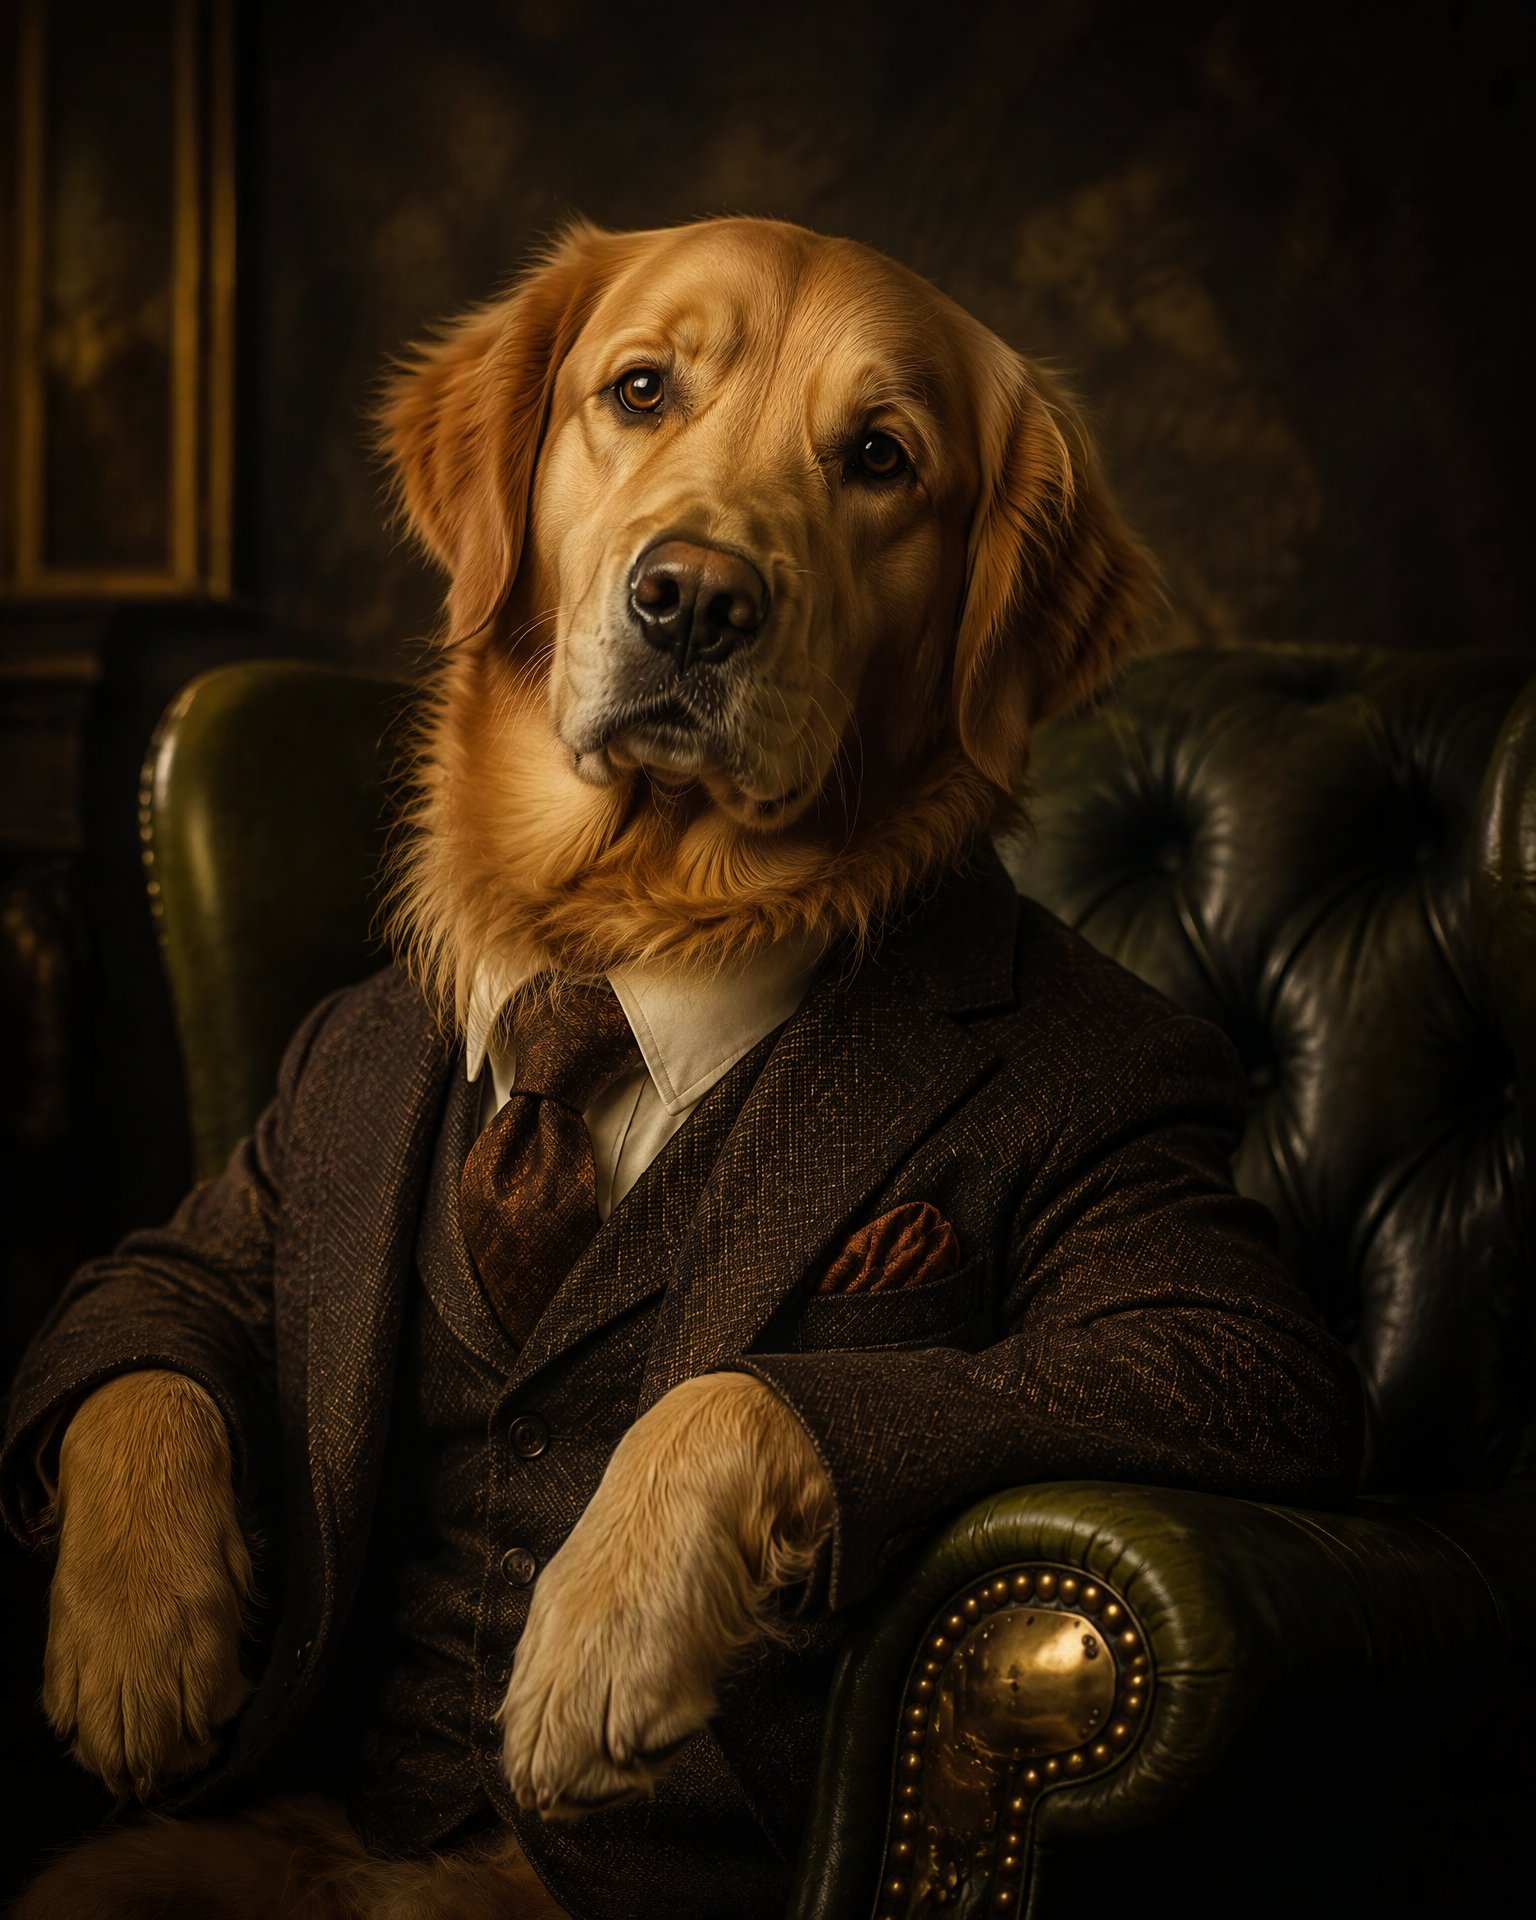
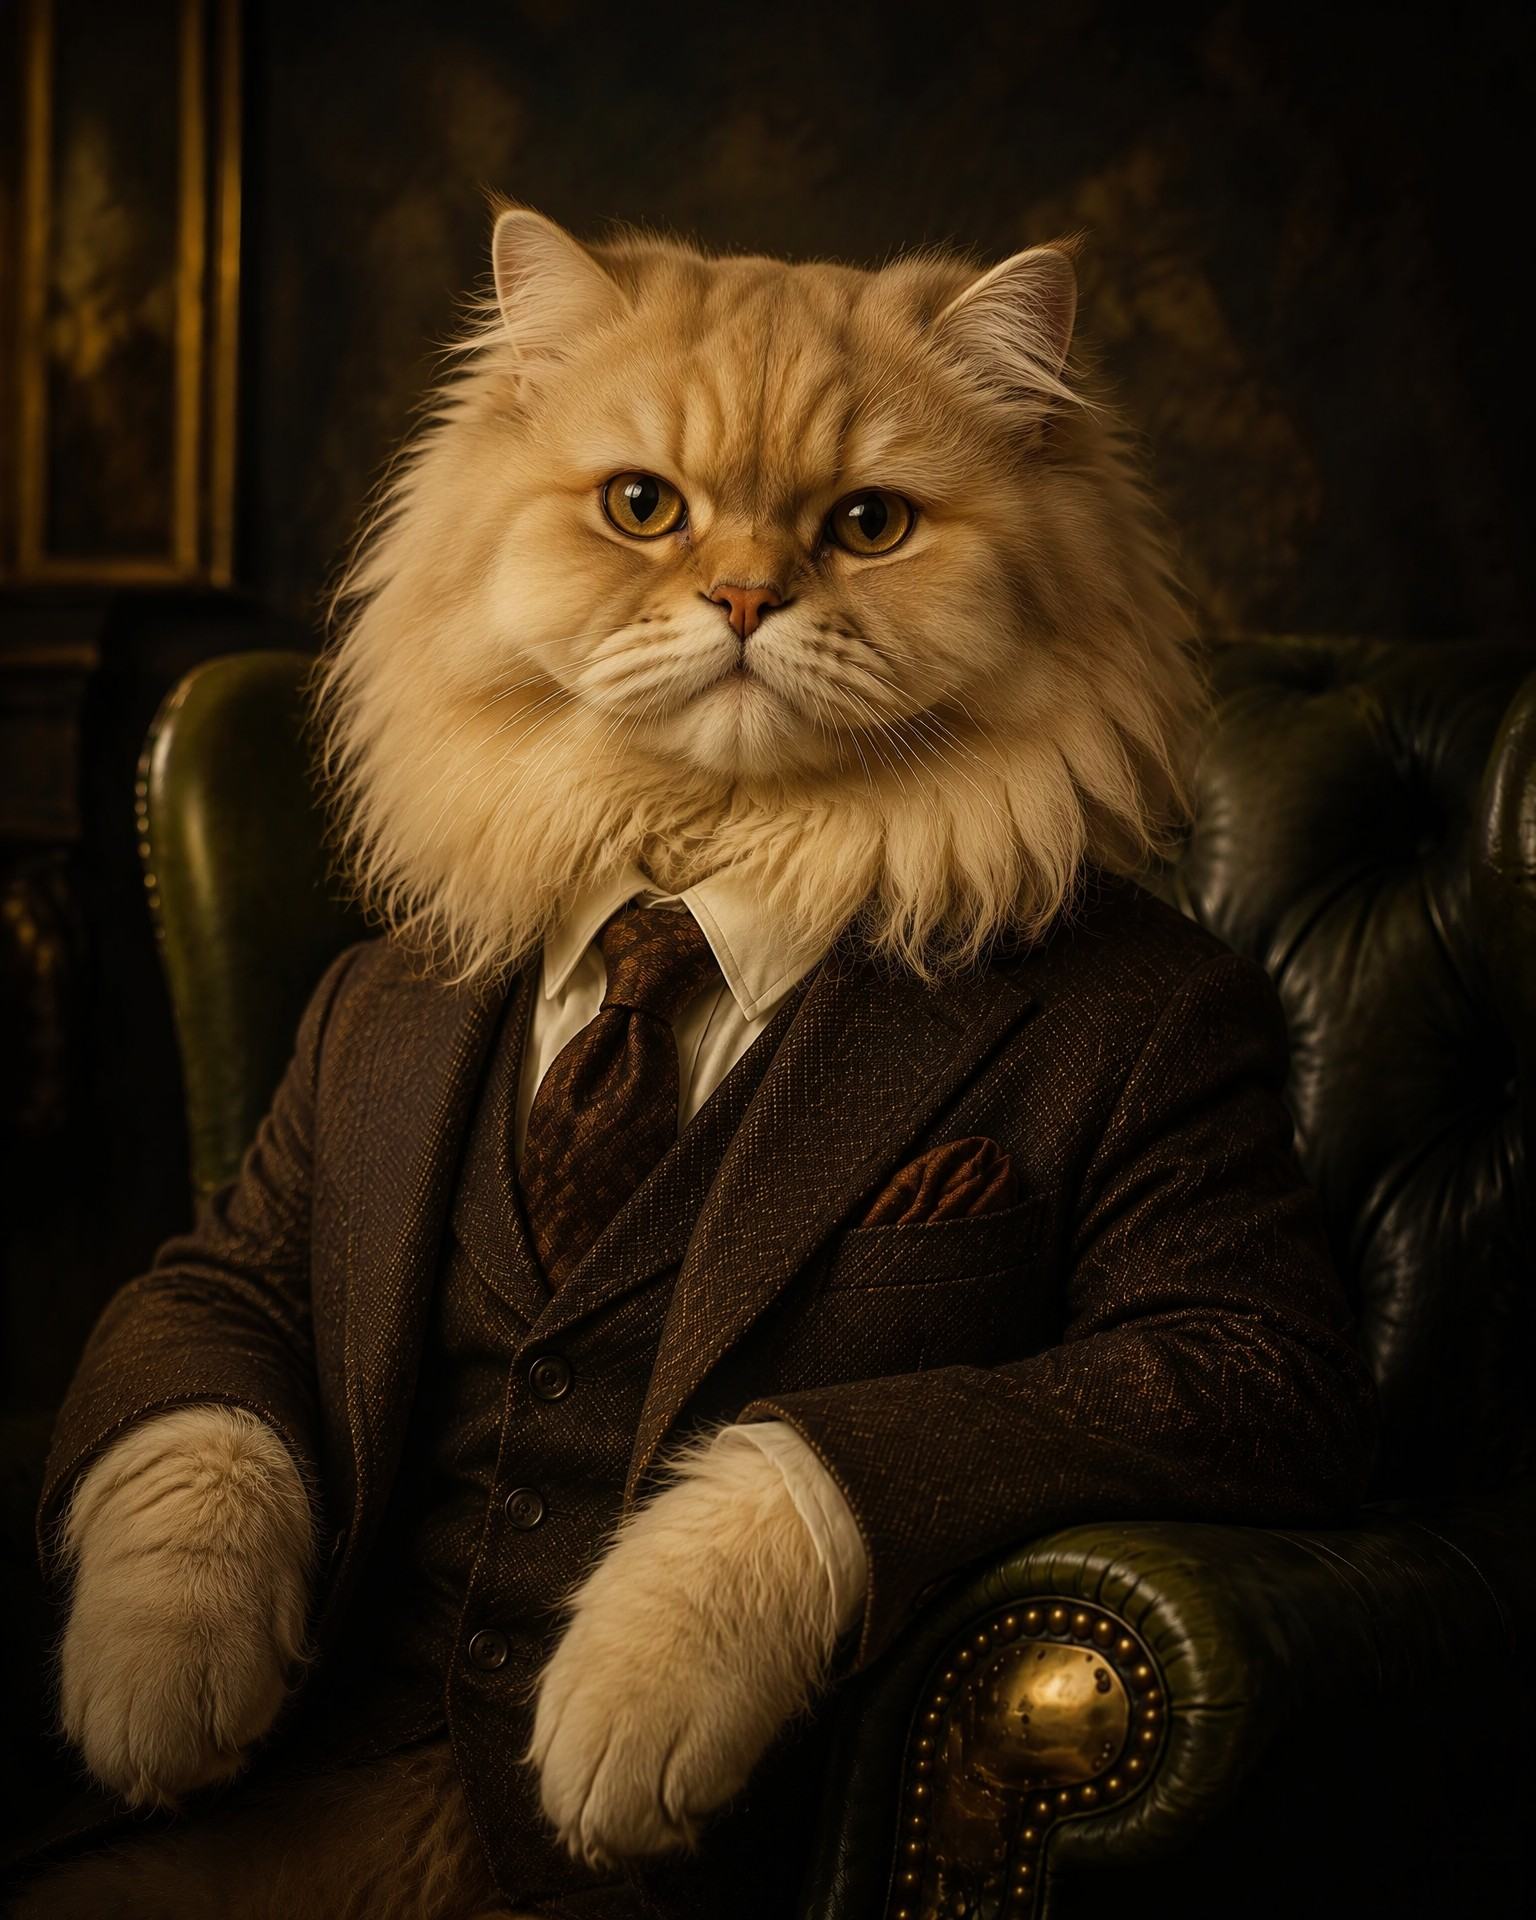
About page: Sol the Persian cat portrait + founder travel line fix

diff --git a/about.html b/about.html
@@ -115,7 +115,7 @@
         <p class="story-lede">Every society begins somewhere. Ours began with a longing: for people worth travelling with.</p>
       </div>
       <div class="wrap story-body reveal">
-        <p>The idea of Solace took shape when our founder, Stuti Verma, returned to India after several years in the United States. She had travelled widely, from the coasts of Hawaii to the cliffs of Madeira, from the quiet coves of Mallorca to cities too numerous to list. Along the way she gathered more than destinations; she gathered a conviction, that a place reveals itself through the company you keep in it.</p>
+        <p>The idea of Solace took shape when our founder, Stuti Verma, returned to India after several years in the United States. Her travels took her from the coasts of Hawaii to the cliffs of Madeira, from the quiet coves of Mallorca to cities too numerous to name. Along the way she gathered more than destinations; she gathered a conviction, that a place reveals itself through the company you keep in it.</p>
         <p>Because the memories that lasted were never only about where she had been. They were about long dinners that ran past midnight, spontaneous detours taken on a stranger's recommendation, and the rare ease of finding people who looked at the world the way she did. What she missed, she realised, was not another destination. It was that company: a circle of people who shared her curiosity, her ambitions, and her appetite for discovering the world properly.</p>
         <blockquote>“The places were never the point. The people were.”</blockquote>
         <p>And so Solace was born. Not another travel company, and not another networking club. A private society that gathers like-minded people around shared interests, meaningful experiences, and a common love of life.</p>
@@ -127,11 +127,11 @@
         <p>Wellness escapes and cultural journeys, music festivals and sporting events, gatherings in extraordinary places: travel is the thread that draws the circle together. The connections made along the way are what make it rare. Our ambition is simple to say and difficult to achieve: a global circle of people who value exceptional experiences, genuine friendships, and the quiet pleasure of being among their own.</p>
         <div class="sol-note">
           <figure class="sol-portrait">
-            <img src="/assets/img/story-sol.jpg?v=b0b13179" alt="Sol, the founding chairman of Solace, seated in his leather armchair" loading="lazy">
+            <img src="/assets/img/story-sol.jpg?v=fa8ba11b" alt="Sol, a regal golden-white Persian cat and founding chairman of Solace, seated in his leather armchair" loading="lazy">
           </figure>
           <div class="sol-text">
             <p class="eyebrow" style="margin-bottom:18px">The Founding Character</p>
-            <p>Every founding story needs its own founding character. Meet Sol: four-legged inspiration, resident personality, and self-appointed chairman of the society. He remains entirely convinced that Solace was named in his honour. We have not had the heart to disagree.</p>
+            <p>Every founding story needs its own founding character. Meet Sol: a golden-white Persian of considerable dignity, four-legged inspiration, resident personality, and self-appointed chairman of the society. He remains entirely convinced that Solace was named in his honour. We have not had the heart to disagree.</p>
           </div>
         </div>
         <p>In the end, life is not about the places you visit. It is about who you share them with.</p>
